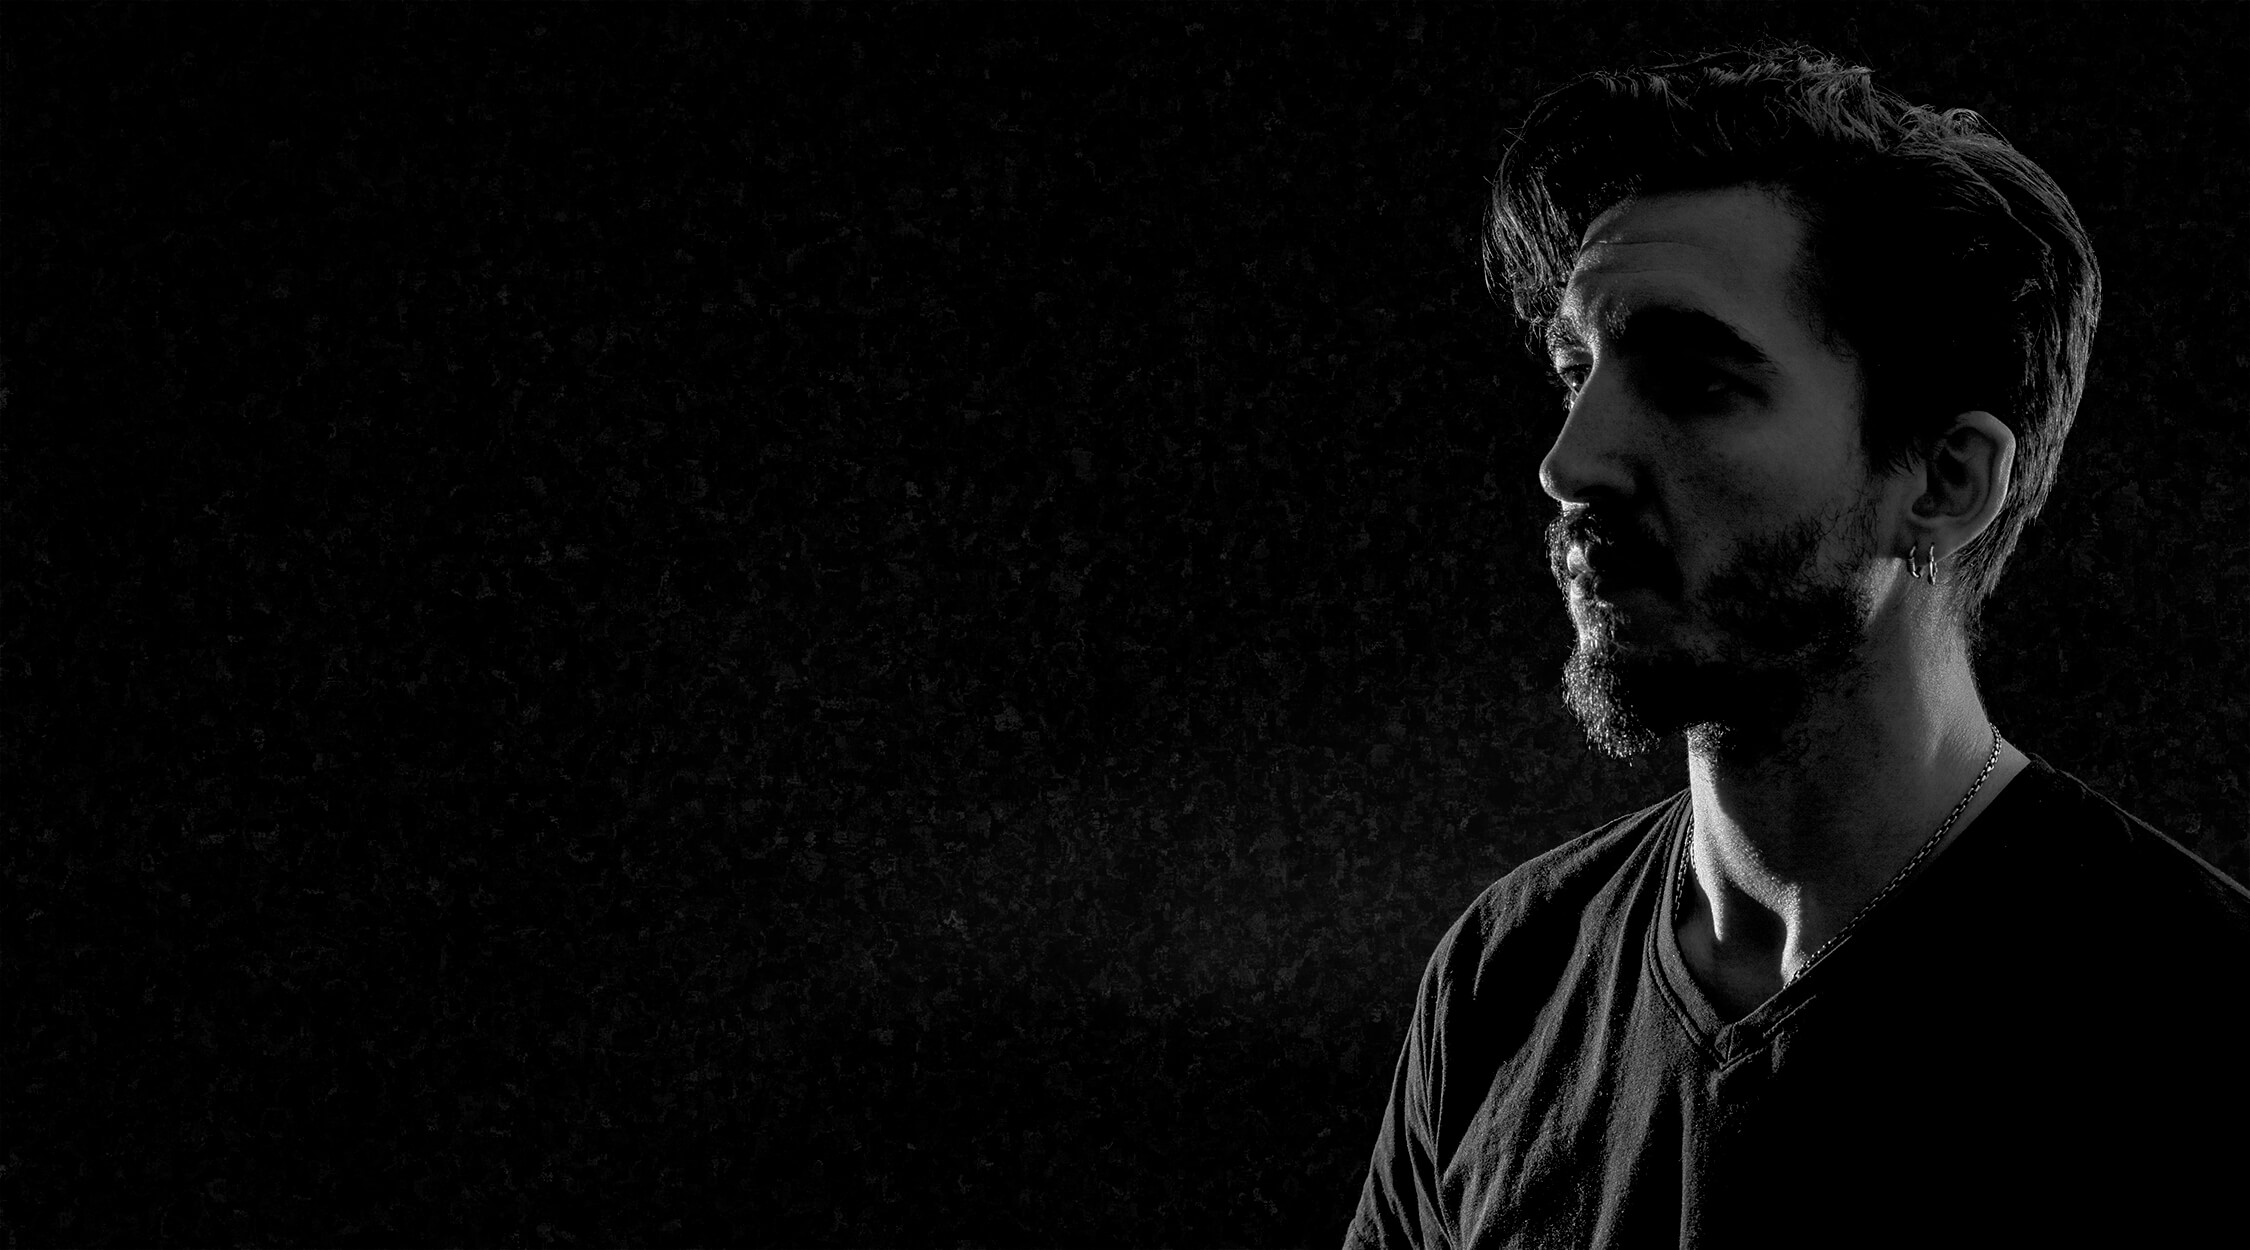
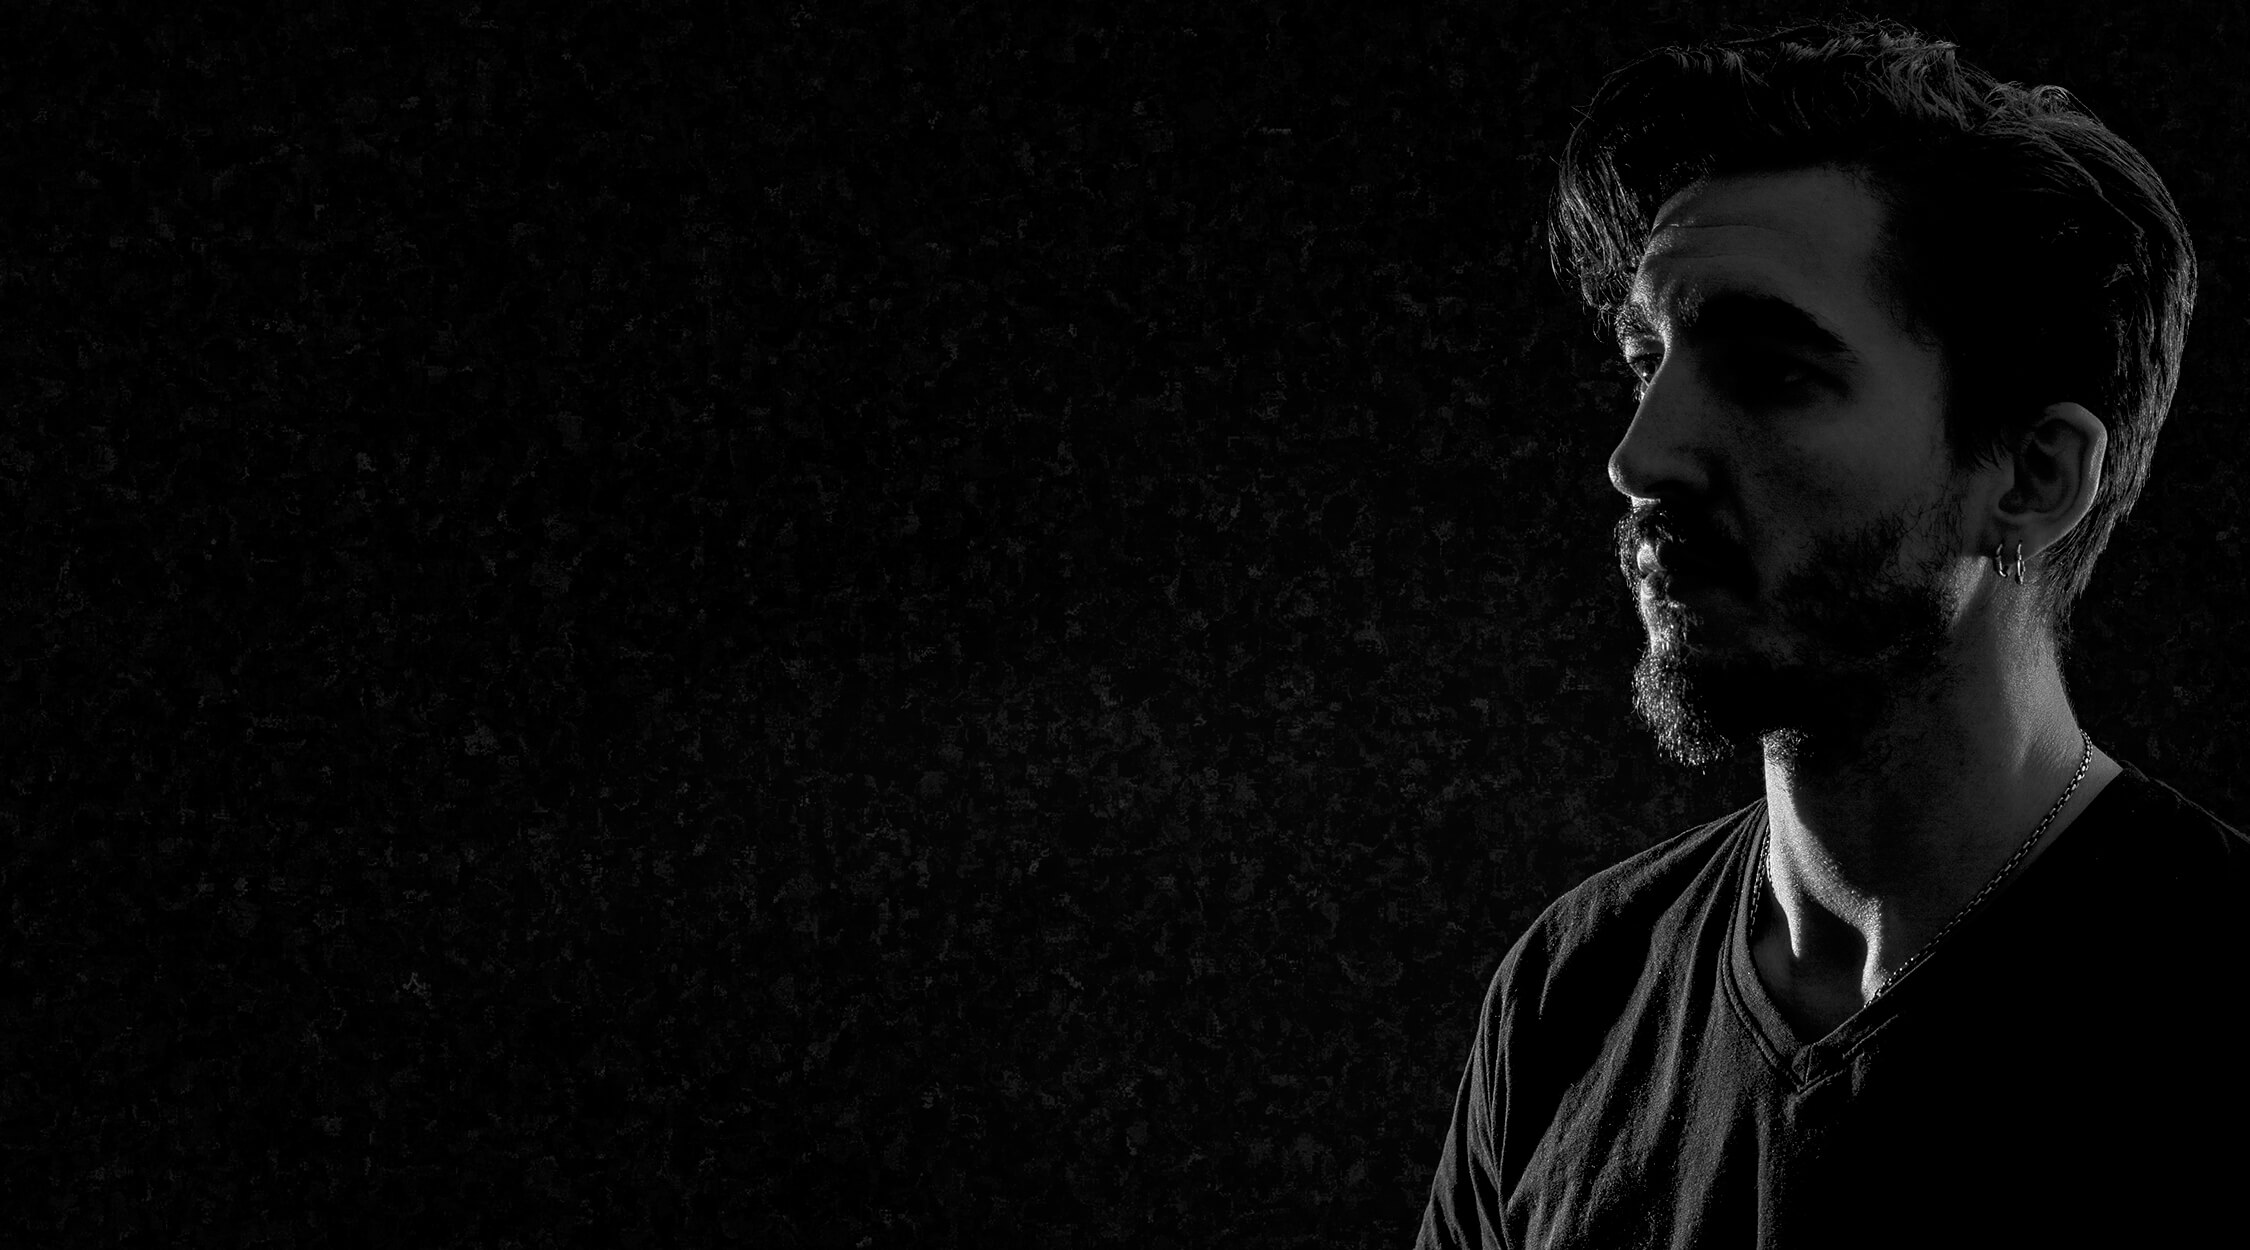
Fix Band mobile-Ansicht

Changed region(s): [[0.5911, 0.0, 0.9956, 1.0], [0.9644, 0.6552, 1.0, 0.7176]]

diff --git a/src/partials/Band/Patrick.html b/src/partials/Band/Patrick.html
@@ -1,26 +1,23 @@
 <div class="row">
     <div class="small-12 columns">
-        <!--  NAME ON SMALL  -->
-        <div class="small-12 show-for-small-only columns">
-            <p class="BandFirstName">Patrick</p>
-            <p class="BandLastName">Pereira</p>
-            <p class="BandText">Voices | Guitars | Synth | Programming</p>
-        </div>
-        <!--  IMAGE  -->
+        <!--  IMAGE LARGE  -->
         <div class="large-12 hide-for-small-only columns BandPortraitBox">
                 <div class=" BandMemberDiscriptionPatrick">
-                        <p class="BandFirstName">Patrick</p>
-                        <p class="BandLastName">Pereira</p>
-                        <p class="BandText">Voices | Guitars | Synth | Programming</p>
+                    <p class="BandFirstName">Patrick</p>
+                    <p class="BandLastName">Pereira</p>
+                    <p class="BandText">Voices | Guitars | Synth | Programming</p>
                 </div>
             <a data-open="ModalPortraitPatrick">
                 <img class="BandPortrait" src="assets/img/Portraits/Patrick_L.jpg" alt="Patrick Pereira Portrait" />
             </a>
-            
-
         </div>
-        <div class="small-12 show-for-small-only columns">
-            <img class="BandPortrait" src="assets/img/Portraits/Patrick.jpg" alt="Patrick Pereira Portrait" />
+        <!--  IMAGE SMALL  -->
+        <div class="small-12 show-for-small-only columns BandPortraitBox">
+            <div class=" BandMemberDiscriptionPatrick">
+                <p class="BandFirstName">Patrick Pereira</p>
+                <p class="BandText">Voices | Guitars | Synth | Programming</p>
+            </div>
+            <img class="BandPortrait" src="assets/img/Portraits/Patrick_S.jpg" alt="Patrick Pereira Portrait" />
         </div>
     </div>
 </div>

diff --git a/src/partials/Band/Lukas.html b/src/partials/Band/Lukas.html
@@ -1,26 +1,23 @@
 <div class="row">
         <div class="small-12 columns">
-            <!--  NAME ON SMALL  -->
-            <div class="small-12 show-for-small-only columns">
-                <p class="BandFirstName">Lukas</p>
-                <p class="BandLastName">Tennie</p>
-                <p class="BandText">Drums</p>
-            </div>
-            <!--  IMAGE  -->
+            <!--  IMAGE LARGE  -->
             <div class="large-12 hide-for-small-only columns BandPortraitBox">
                     <div class=" BandMemberDiscriptionLukas">
-                            <p class="BandFirstName">Lukas</p>
-                            <p class="BandLastName">Tennie</p>
-                            <p class="BandText">Drums</p>
+                        <p class="BandFirstName">Lukas</p>
+                        <p class="BandLastName">Tennie</p>
+                        <p class="BandText">Drums</p>
                     </div>
                 <a data-open="ModalPortraitLukas">
                     <img class="BandPortrait" src="assets/img/Portraits/Lukas_L.jpg" alt="Lukas Tennie Portrait" />
                 </a>
-                
-    
             </div>
-            <div class="small-12 show-for-small-only columns">
-                <img class="BandPortrait" src="assets/img/Portraits/Lukas.jpg" alt="Lukas Tennie Portrait" />
+            <!--  IMAGE SMALL  -->
+            <div class="small-12 show-for-small-only columns BandPortraitBox">
+                <div class=" BandMemberDiscriptionPatrick">
+                    <p class="BandFirstName">Lukas Tennie</p>
+                    <p class="BandText">Drums</p>
+                </div>
+                <img class="BandPortrait" src="assets/img/Portraits/Lukas_S.jpg" alt="Patrick Pereira Portrait" />
             </div>
         </div>
     </div>

diff --git a/src/partials/Band/Finn.html b/src/partials/Band/Finn.html
@@ -1,12 +1,6 @@
 <div class="row">
         <div class="small-12 columns">
-            <!--  NAME ON SMALL  -->
-            <div class="small-12 show-for-small-only columns">
-                <p class="BandFirstName">Finn</p>
-                <p class="BandLastName">Engels</p>
-                <p class="BandText">Bass | Bass</p>
-            </div>
-            <!--  IMAGE  -->
+            <!--  IMAGE LARGE  -->
             <div class="large-12 hide-for-small-only columns BandPortraitBox">
                     <div class=" BandMemberDiscriptionFinn">
                             <p class="BandFirstName">Finn</p>
@@ -16,11 +10,17 @@
                 <a data-open="ModalPortraitFinn">
                     <img class="BandPortrait" src="assets/img/Portraits/Finn_L.jpg" alt="Finn Engels Portrait" />
                 </a>
-                
-    
             </div>
-            <div class="small-12 show-for-small-only columns">
-                <img class="BandPortrait" src="assets/img/Portraits/Finn.jpg" alt="Finn Engels Portrait" />
+            <!--  IMAGE SMALL  -->
+        <div class="small-12 show-for-small-only columns BandPortraitBox">
+                <div class=" BandMemberDiscriptionPatrick">
+                    <p class="BandFirstName">Finn Engels</p>
+                    <p class="BandText">Bass | Voices</p>
+                </div>
+                <img class="BandPortrait" src="assets/img/Portraits/Finn_S.jpg" alt="Patrick Pereira Portrait" />
             </div>
+        </div>
+        <div class="small-12 columns">
+            <p style="text-align: center;">©2017 Fotos by Pauline Djabbarpour</p>
         </div>
     </div>

diff --git a/src/partials/Band/Philip.html b/src/partials/Band/Philip.html
@@ -1,12 +1,6 @@
 <div class="row">
         <div class="small-12 columns">
-            <!--  NAME ON SMALL  -->
-            <div class="small-12 show-for-small-only columns">
-                <p class="BandFirstName">Philip</p>
-                <p class="BandLastName">Redecker</p>
-                <p class="BandText">Guitars | Voices | Synth</p>
-            </div>
-            <!--  IMAGE  -->
+            <!--  IMAGE LARGE  -->
             <div class="large-12 hide-for-small-only columns BandPortraitBox">
                     <div class=" BandMemberDiscriptionPhilip">
                             <p class="BandFirstName">Philip</p>
@@ -16,11 +10,14 @@
                 <a data-open="ModalPortraitPhilip">
                     <img class="BandPortrait" src="assets/img/Portraits/Philip_L.jpg" alt="Philip Redecker Portrait" />
                 </a>
-                
-    
             </div>
-            <div class="small-12 show-for-small-only columns">
-                <img class="BandPortrait" src="assets/img/Portraits/Philip.jpg" alt="Philip Redecker Portrait" />
+            <!--  IMAGE SMALL  -->
+            <div class="small-12 show-for-small-only columns BandPortraitBox">
+                <div class=" BandMemberDiscriptionPatrick">
+                    <p class="BandFirstName">Philip Redecker</p>
+                    <p class="BandText">Guitars | Voices | Synth</p>
+                </div>
+                <img class="BandPortrait" src="assets/img/Portraits/Philip_S.jpg" alt="Patrick Pereira Portrait" />
             </div>
         </div>
     </div>

diff --git a/src/assets/scss/band.scss b/src/assets/scss/band.scss
@@ -1,9 +1,13 @@
 .BandFirstName {
     line-height: 1;
     color: white;
-    font-size: 6em;
+    font-size: 6rem;
     font-weight: bold;
     text-align: center;
+    @media screen and (max-width: 39.9375em) {
+        font-size: 2rem;
+        text-transform: uppercase;
+    }
 }
 
 .BandLastName {
@@ -14,16 +18,21 @@
     font-weight: bold;
     letter-spacing: 0.2rem;
     text-transform: uppercase;
+    @media screen and (max-width: 39.9375em) {
+        line-height: 0;
+        font-size: 1rem;
+    }
 }
 
 .BandText {
     text-align: center;
     color: $medium-gray;
+    @media screen and (max-width: 39.9375em) {
+        line-height: 1.25rem;
+    }
 }
 
-.BandPortrait {
-    margin: 0rem auto 0rem auto;
-}
+
 
 .BandPortraitBox {
     position: relative;
@@ -34,11 +43,17 @@
         top: 25%;
         left: 47%;
     }
+    @media screen and (max-width: 39.9375em) {
+        top: 5%;
+        left: 0;
+        width: 100%;
+        margin-left: auto;
+        margin-right: auto;
+    }
     position: absolute;
     z-index: 1000;
     left: 55%;
     top: 35%;
-
 }
 
 .BandMemberDiscriptionLukas{

diff --git a/src/partials/Band/BandContent.html b/src/partials/Band/BandContent.html
@@ -1,5 +1,5 @@
 <div class="row ContentHeadlineBoxTop">
-    <div class="small-6 small-centered columns ContentHeadline">
+    <div class="small-8 small-centered columns ContentHeadline">
         <h3>Cloud Colony are</h3>
     </div>
 </div>
